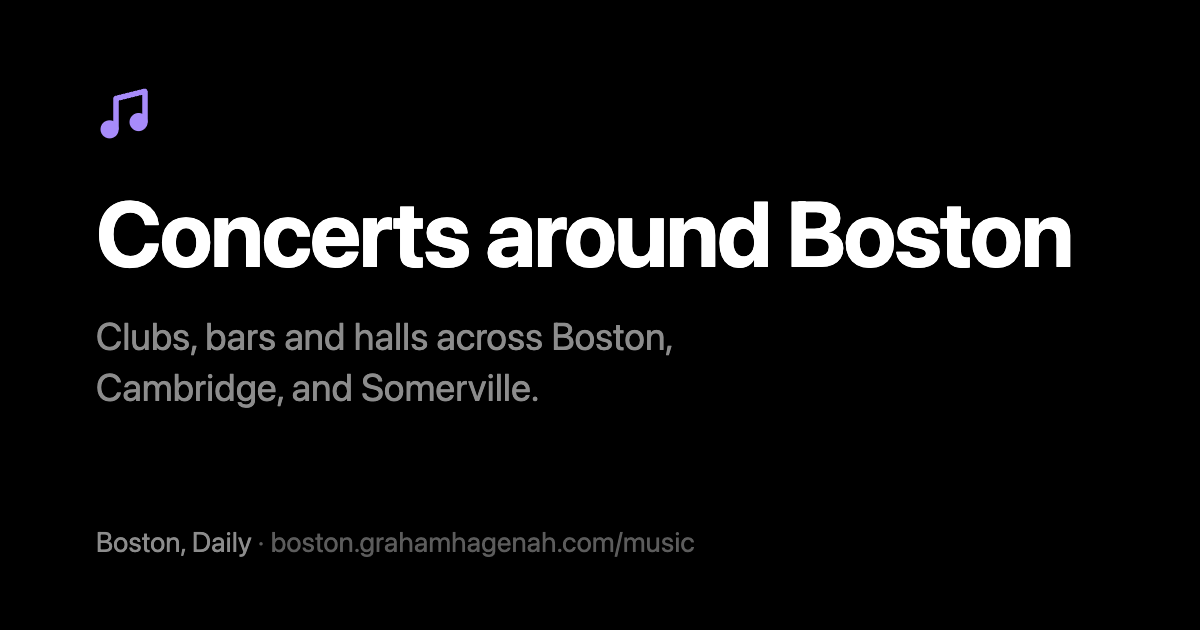
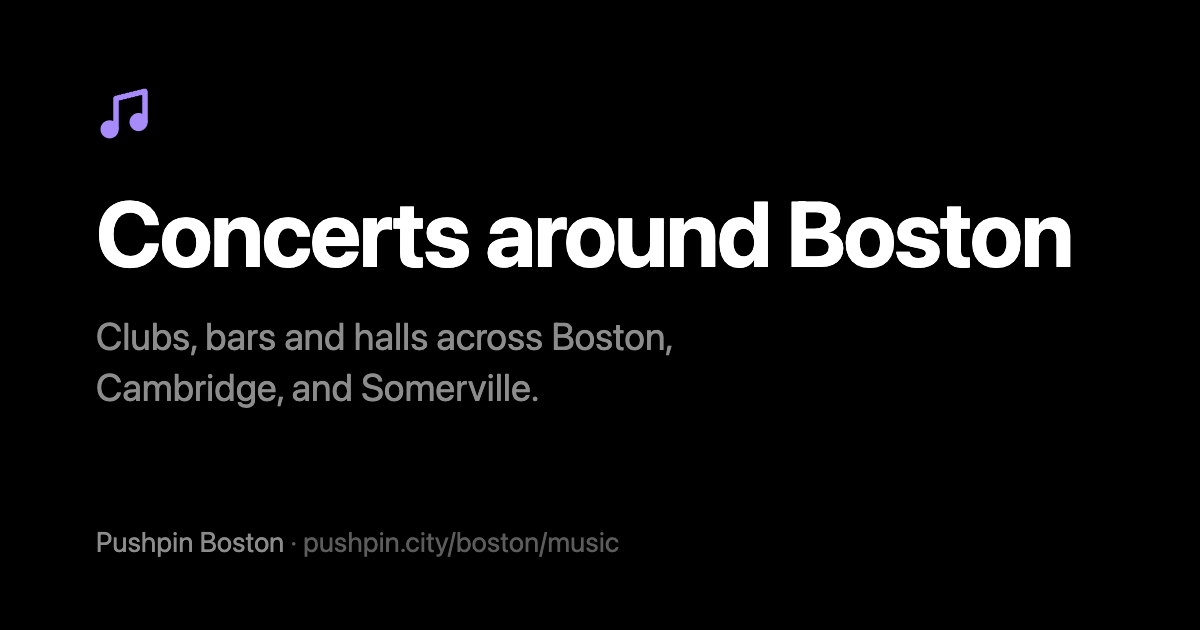
Pushpin Boston, at pushpin.city/boston/
Boston, Daily becomes Pushpin Boston, published at pushpin.city with Boston's pages under
/boston/, leaving room for other cities. The site's root and any address it doesn't have go
to Boston's (an old /music/ to /boston/music/), keeping any ?venue= or ?q=. The share cards
carry the new name and address. events/moved.py makes the pages left at
boston.grahamhagenah.com, which send each old address on to its new one.

The workflow publishes to the grahamhagenah/pushpin repo (boston-daily, renamed) with the
pushpin.city custom domain.

Changed region(s): [[0.0617, 0.8444, 0.5858, 0.8746]]

diff --git a/tests/test_events.py b/tests/test_events.py
@@ -250,6 +250,17 @@ class Skipping(unittest.TestCase):
             self.assertIsNone(build.skipping())
 
 
+class Moving(unittest.TestCase):
+    def test_redirects_keep_the_page_and_its_filters(self):
+        page = build.render_redirect(build.PUBLIC_URL + "music/")
+        self.assertIn(f'<meta http-equiv="refresh" content="0; url={build.PUBLIC_URL}music/">', page)
+        self.assertIn(f'<link rel="canonical" href="{build.PUBLIC_URL}music/">', page)
+        self.assertIn("location.search + location.hash", page, "?venue= and ?q= come along")
+        missing = build.render_redirect(build.PUBLIC_URL, paths=True)
+        self.assertIn("location.pathname.slice(1)", missing, "an old /music/ goes to /boston/music/")
+        self.assertIn(f'location.pathname.startsWith("{build.PUBLIC_ROOT}")', missing, "and never /boston/boston/")
+
+
 class Window(unittest.TestCase):
     def test_concerts_two_months_ahead_the_rest_one(self):
         with mock.patch.object(build, "today", lambda: date(2026, 9, 1)):
@@ -479,6 +490,9 @@ class Fallback(unittest.TestCase):
         self.assertEqual(failing["Paradise"]["since"], self.built.isoformat())
 
 
+R = build.PUBLIC_ROOT  # The public site's root, which its links start from.
+
+
 class Page(unittest.TestCase):
     def test_renders_rows_and_filters(self):
         with mock.patch.object(build, "fetch", sample):
@@ -501,12 +515,12 @@ class Page(unittest.TestCase):
         mine = build.render_index(found + kept, sources, [], [], built)
         self.assertNotIn("Newsfeed", public)
         footer = public.split("<footer>")[1]
-        for label, href in [("All events", "/"), ("Music", "/music/"), ("Film", "/film/"), ("Art &amp; talks", "/talks/"),
-                            ("This weekend", "/weekend/"), ("Next weekend", "/weekend/next/"), ("About", "/about.html"), ("Contact", "/contact.html")]:
+        for label, href in [("All events", R), ("Music", R + "music/"), ("Film", R + "film/"), ("Art &amp; talks", R + "talks/"),
+                            ("This weekend", R + "weekend/"), ("Next weekend", R + "weekend/next/"), ("About", R + "about.html"), ("Contact", R + "contact.html")]:
             self.assertIn(f'<a href="{href}"', footer, label)
-        self.assertIn('<a href="/" aria-current="page">All events</a>', footer, "this page marked")
+        self.assertIn(f'<a href="{R}" aria-current="page">All events</a>', footer, "this page marked")
         self.assertIn("Listings from Roadrunner, aggregated", footer)
-        self.assertNotIn('href="/about.html"', public.split("<footer>")[0], "not in the header")
+        self.assertNotIn(f'href="{R}about.html"', public.split("<footer>")[0], "not in the header")
         self.assertNotIn("Add a source", public)
         self.assertIn('content="index, follow"', public)
         self.assertIn('content="noindex, nofollow"', mine)
@@ -518,7 +532,7 @@ class Page(unittest.TestCase):
         self.assertIn("Roadrunner", about)
         self.assertNotIn("Private Theater", about)
         self.assertIn("https://formsubmit.co/", build.render_contact())
-        self.assertIn('<a href="/contact.html">Contact</a>', about.split("<footer>")[1])
+        self.assertIn(f'<a href="{R}contact.html">Contact</a>', about.split("<footer>")[1])
 
     def test_public_page_tells_search_engines_what_it_is(self):
         with mock.patch.object(build, "fetch", sample):
@@ -548,8 +562,8 @@ class Page(unittest.TestCase):
         mine = build.render_index(music + films, sources, [], [], built)
         # The home page's filter links to each kind's page, and marks All; the film page marks Film.
         self.assertIn('data-pages data-current="all"', home)
-        self.assertIn('<a data-show="film" href="/film/">', home)
-        self.assertIn('<a data-show="all" href="/" aria-current="page">All</a>', home)
+        self.assertIn(f'<a data-show="film" href="{R}film/">', home)
+        self.assertIn(f'<a data-show="all" href="{R}" aria-current="page">All</a>', home)
         self.assertIn('data-current="film"', film)
         self.assertIn(f'<link rel="canonical" href="{build.PUBLIC_URL}film/">', film)
         self.assertIn(f'<meta property="og:image" content="{build.PUBLIC_URL}share/film.png">', film)
@@ -589,14 +603,14 @@ class Page(unittest.TestCase):
         self.assertIn(f'<link rel="canonical" href="{build.PUBLIC_URL}weekend/">', page)
         self.assertIn('<nav class="filter" aria-label="Show" data-here data-one-page><button', page)
         self.assertIn(f'<meta property="og:image" content="{build.PUBLIC_URL}share/weekend.png">', page)
-        self.assertIn('<a href="/about.html" aria-current="page">About</a>', build.render_about([venue], built))
-        self.assertIn('<a href="/weekend/" aria-current="page">This weekend</a>', page)
+        self.assertIn(f'<a href="{R}about.html" aria-current="page">About</a>', build.render_about([venue], built))
+        self.assertIn(f'<a href="{R}weekend/" aria-current="page">This weekend</a>', page)
         self.assertIn(f"<loc>{build.PUBLIC_URL}weekend/</loc>", build.render_sitemap(built))
-        self.assertIn('<a href="/weekend/next/">Next weekend, Sep 25–27 →</a>', page)
+        self.assertIn(f'<a href="{R}weekend/next/">Next weekend, Sep 25–27 →</a>', page)
         following = build.render_index(events, [venue], [], [], built, public=True, weekend=1)
         self.assertNotIn("On the 18th", following)
         self.assertIn("Next weekend around Boston, Cambridge, and Somerville: Friday, September 25", following)
-        self.assertIn('<a href="/weekend/">← This weekend, Sep 18–20</a>', following)
+        self.assertIn(f'<a href="{R}weekend/">← This weekend, Sep 18–20</a>', following)
         self.assertIn(f'<link rel="canonical" href="{build.PUBLIC_URL}weekend/next/">', following)
         self.assertIn(f'<meta property="og:image" content="{build.PUBLIC_URL}share/weekend.png">', following)
         self.assertIn(f"<loc>{build.PUBLIC_URL}weekend/next/</loc>", build.render_sitemap(built))
@@ -615,7 +629,7 @@ class Page(unittest.TestCase):
         self.assertIn(f"<title>{build.PUBLIC_TONIGHT[1]}</title>", page)
         self.assertIn(f'<link rel="canonical" href="{build.PUBLIC_URL}tonight/">', page)
         self.assertIn(f'<meta property="og:image" content="{build.PUBLIC_URL}share/tonight.png">', page)
-        self.assertIn('<a href="/tonight/" aria-current="page">Tonight</a>', page)
+        self.assertIn(f'<a href="{R}tonight/" aria-current="page">Tonight</a>', page)
         self.assertIn(f"<loc>{build.PUBLIC_URL}tonight/</loc>", build.render_sitemap(built))
 
     def test_event_data_uses_an_events_own_address(self):

diff --git a/events/build.py b/events/build.py
@@ -34,12 +34,16 @@ CATEGORIES = {"music": "Music", "film": "Film", "art": "Art & talks"}
 
 # The same listings, for anyone: its own name, About and Contact pages, shorter previews, and only the
 # sources fine to republish (a line in sources.txt ending in public=no stays on this page only).
-PUBLIC_NAME = "Boston, Daily"
+PUBLIC_NAME = "Pushpin Boston"
+# Pushpin's site, at pushpin.city, with each city's listings at a path of their own: Boston's at /boston/.
+# PUBLIC_DIR is the whole site, as published; the city's pages are in its boston/ folder.
+PUBLIC_SITE = "https://pushpin.city/"
+PUBLIC_URL = PUBLIC_SITE + "boston/"
 PUBLIC_DIR = ROOT.parent / "dist" / "public"
-PUBLIC_URL = "https://boston.grahamhagenah.com/"
 # Its pages link to each other from the site's root, since the home page puts a kind's page's address in the
 # address bar without loading it, and a relative link would then go astray.
 PUBLIC_ROOT = urlsplit(PUBLIC_URL).path
+CITY_DIR = PUBLIC_DIR / PUBLIC_ROOT.strip("/")
 PUBLIC_CONTACT = "gwhagenah@gmail.com"  # Where the contact form's messages go, through FormSubmit.
 PUBLIC_ABOUT_CHARS = 240  # Of the venue's own words in a preview.
 PUBLIC_TITLE = f"{PUBLIC_NAME} · Concerts, films and talks around Boston"
@@ -1393,6 +1397,22 @@ words, in short.</p>
                        description=f"What {PUBLIC_NAME} is, and the Boston, Cambridge and Somerville venues it lists.")
 
 
+def render_redirect(address, paths=False):
+    """A page that sends its visitor on to address at once, keeping any ?venue= or ?q= and #, and tells search
+    engines that's where it lives: the site's root (Boston's, until there's another city), and the pages left
+    at the site's first address. With paths (a page not found), the rest of the address it was asked for comes
+    along: /music/ goes to /boston/music/; one already under /boston/ that isn't there, to Boston's home page."""
+    link = html.escape(address)
+    target = json.dumps(address)
+    if paths:
+        target += f' + (location.pathname.startsWith({json.dumps(PUBLIC_ROOT)}) ? "" : location.pathname.slice(1))'
+    return (f'<!doctype html>\n<html lang="en">\n<meta charset="utf-8">\n<title>{html.escape(PUBLIC_NAME)}</title>\n'
+            f'<meta http-equiv="refresh" content="0; url={link}">\n<link rel="canonical" href="{link}">\n'
+            f'<meta name="color-scheme" content="dark">\n<style>html {{ background: #000; }}</style>\n'
+            f"<script>location.replace({target} + location.search + location.hash);</script>\n"
+            f'<p><a href="{link}">{html.escape(PUBLIC_NAME)}</a></p>\n</html>\n')
+
+
 def render_sitemap(built_at):
     """The public site's pages for search engines: the listings, changing every few hours, and the others."""
     pages = ([("", "hourly", "1.0"), (PUBLIC_TONIGHT[0], "hourly", "0.9")] + [(path, "hourly", "0.9") for path, *_ in PUBLIC_WEEKENDS] + [(f"{slug}/", "hourly", "0.9") for slug, *_ in PUBLIC_PAGES.values()]
@@ -1890,24 +1910,28 @@ def main():
     print(f"Wrote {OUT_DIR.relative_to(ROOT.parent)}/index.html with {len(events)} listings, and listings.json")
 
     # The public site, from the same listings.
-    PUBLIC_DIR.mkdir(parents=True, exist_ok=True)
-    shutil.copytree(ROOT / "static", PUBLIC_DIR, dirs_exist_ok=True)
-    shutil.copytree(ROOT / "share", PUBLIC_DIR / "share", dirs_exist_ok=True)
-    (PUBLIC_DIR / "index.html").write_text(render_index(events, sources, failed, stale, built_at, public=True))
-    (PUBLIC_DIR / "about.html").write_text(render_about(sources, built_at))
-    (PUBLIC_DIR / "contact.html").write_text(render_contact())
+    CITY_DIR.mkdir(parents=True, exist_ok=True)
+    shutil.copytree(ROOT / "static", CITY_DIR, dirs_exist_ok=True)
+    shutil.copytree(ROOT / "share", CITY_DIR / "share", dirs_exist_ok=True)
+    (CITY_DIR / "index.html").write_text(render_index(events, sources, failed, stale, built_at, public=True))
+    (CITY_DIR / "about.html").write_text(render_about(sources, built_at))
+    (CITY_DIR / "contact.html").write_text(render_contact())
     for category, (slug, *_) in PUBLIC_PAGES.items():
-        (PUBLIC_DIR / slug).mkdir(exist_ok=True)
-        (PUBLIC_DIR / slug / "index.html").write_text(render_index(events, sources, failed, stale, built_at, public=True, category=category))
-    (PUBLIC_DIR / PUBLIC_TONIGHT[0]).mkdir(parents=True, exist_ok=True)
-    (PUBLIC_DIR / PUBLIC_TONIGHT[0] / "index.html").write_text(render_index(events, sources, failed, stale, built_at, public=True, tonight=True))
+        (CITY_DIR / slug).mkdir(exist_ok=True)
+        (CITY_DIR / slug / "index.html").write_text(render_index(events, sources, failed, stale, built_at, public=True, category=category))
+    (CITY_DIR / PUBLIC_TONIGHT[0]).mkdir(parents=True, exist_ok=True)
+    (CITY_DIR / PUBLIC_TONIGHT[0] / "index.html").write_text(render_index(events, sources, failed, stale, built_at, public=True, tonight=True))
     for ahead, (path, *_) in enumerate(PUBLIC_WEEKENDS):
-        (PUBLIC_DIR / path).mkdir(parents=True, exist_ok=True)
-        (PUBLIC_DIR / path / "index.html").write_text(render_index(events, sources, failed, stale, built_at, public=True, weekend=ahead))
-    (PUBLIC_DIR / "sitemap.xml").write_text(render_sitemap(built_at))
+        (CITY_DIR / path).mkdir(parents=True, exist_ok=True)
+        (CITY_DIR / path / "index.html").write_text(render_index(events, sources, failed, stale, built_at, public=True, weekend=ahead))
+    (CITY_DIR / "sitemap.xml").write_text(render_sitemap(built_at))
+    # The site's root: straight to Boston, the only city so far, and robots.txt, which only works there.
+    shutil.copytree(ROOT / "static", PUBLIC_DIR, dirs_exist_ok=True)
+    (PUBLIC_DIR / "index.html").write_text(render_redirect(PUBLIC_URL))
+    (PUBLIC_DIR / "404.html").write_text(render_redirect(PUBLIC_URL, paths=True))
     (PUBLIC_DIR / "robots.txt").write_text(f"User-agent: *\nAllow: /\n\nSitemap: {PUBLIC_URL}sitemap.xml\n")
-    print(f"Wrote {PUBLIC_DIR.relative_to(ROOT.parent)}: index.html, {', '.join(slug + '/' for slug, *_ in PUBLIC_PAGES.values())}, tonight/, weekend/, weekend/next/, "
-          "about.html, contact.html, sitemap.xml and robots.txt")
+    print(f"Wrote {CITY_DIR.relative_to(ROOT.parent)}: index.html, {', '.join(slug + '/' for slug, *_ in PUBLIC_PAGES.values())}, tonight/, weekend/, weekend/next/, "
+          "about.html, contact.html and sitemap.xml; and at the site's root, the way to it and robots.txt")
 
 
 if __name__ == "__main__":

diff --git a/events/moved.py b/events/moved.py
@@ -1,0 +1,30 @@
+"""The pages left at boston.grahamhagenah.com, where Pushpin Boston was first published (as Boston, Daily): each
+of its old addresses sends visitors and search engines on to the same page at pushpin.city/boston/, keeping
+any ?venue= or ?q=. They don't change, so they're made once, into dist/moved, with python3 -m events.moved,
+and published from the grahamhagenah/boston-daily repo's gh-pages branch."""
+
+from pathlib import Path
+
+from events import build
+
+OLD_DOMAIN = "boston.grahamhagenah.com"
+OUT = build.ROOT.parent / "dist" / "moved"
+# Every page the site had there, and a page for any other address, which follows it to the same path.
+PAGES = ["", "about.html", "contact.html", build.PUBLIC_TONIGHT[0]] + [path for path, *_ in build.PUBLIC_WEEKENDS] + [
+    f"{slug}/" for slug, *_ in build.PUBLIC_PAGES.values()]
+
+
+def main():
+    for path in PAGES:
+        page = OUT / (path + "index.html" if path == "" or path.endswith("/") else path)
+        page.parent.mkdir(parents=True, exist_ok=True)
+        page.write_text(build.render_redirect(build.PUBLIC_URL + path))
+    (OUT / "404.html").write_text(build.render_redirect(build.PUBLIC_URL, paths=True))
+    (OUT / "robots.txt").write_text("User-agent: *\nAllow: /\n")
+    (OUT / "CNAME").write_text(OLD_DOMAIN + "\n")
+    (OUT / ".nojekyll").write_text("")
+    print(f"Wrote {len(PAGES) + 1} pages to {OUT.relative_to(Path.cwd()) if OUT.is_relative_to(Path.cwd()) else OUT}")
+
+
+if __name__ == "__main__":
+    main()

diff --git a/events/share_cards.py b/events/share_cards.py
@@ -1,4 +1,4 @@
-"""The images a link to Boston, Daily shows when it's shared (1200×630): one for the home page, one for each
+"""The images a link to Pushpin Boston shows when it's shared (1200×630): one for the home page, one for each
 kind's page. They don't change with the listings, so they're made by hand, not by each build, with Chrome
 installed: python3 -m events.share_cards. Run it again after renaming the site or rewording a page; it writes
 events/share/*.png, which the build copies to the public site."""

diff --git a/README.md b/README.md
@@ -27,19 +27,19 @@ Run everything from this top folder, with only the Python standard library:
 - Venues rarely publish feeds, so the build uses the most dependable thing each offers: AEG's event data (Roadrunner), an AXS venue site's full listing and its shows' own pages for start times (The Sinclair), schema.org event data (the Brattle, House of Blues, Deep Cuts' page on DICE), a calendar feed (Midway Cafe, and Arts at the Armory's, sorted by its own categories), a Squarespace site's event data (The Lilypad), a calendar in a page's script (Club Passim), a WordPress calendar's API (Lizard Lounge, The Rockwell's music), the schedule data behind a theater chain's site (Alamo Drafthouse, Landmark's Kendall Square), Ticketmaster (the Paradise, Brighton Music Hall, the Crystal Ballroom, the Somerville Theatre), a Veezi-hosted theater's own data (West Newton Cinema), or the page itself (the Coolidge, the Harvard Film Archive, TicketWeb listings at the Middle East).
 - Art & talks come from MIT's events calendar (public exhibitions, and talks from its architecture and humanities schools or listed under the arts), the Boston Public Library's events feed (talks, lectures and exhibitions for adults), the MFA's and Harvard Art Museums' calendars (their lectures, talks and special events; their films go under Film), SoWa's First Fridays, the ICA's talks, dance and First Fridays (its concerts go under Music, its films under Film), the French Library's talks and screenings (its screenings go under Film), and ArtsEmerson's performances. An exhibition is listed on the day it opens, with when it closes.
 - The search beside the filter keeps the events with every word typed in their name, place or description, like a venue, a director or "35mm" (press / to jump to it, Esc to clear it). The newsfeed has the same search, over headlines, sources and previews. On phones the search and the menu beside it are on a line of their own under the kinds.
-- The newsfeed's menu beside it ("All sources") shows one source's posts, of every kind, kept in the address (`?source=`). The events pages' ("All venues") shows one venue's events of every kind, kept in the address (`?venue=`); a film playing at several theaters narrows to the chosen one's times. On Boston, Daily's music, film and talks pages, a choice goes to the home page, which has every kind; on the weekend and tonight pages it lists only the venues with events then.
+- The newsfeed's menu beside it ("All sources") shows one source's posts, of every kind, kept in the address (`?source=`). The events pages' ("All venues") shows one venue's events of every kind, kept in the address (`?venue=`); a film playing at several theaters narrows to the chosen one's times. On Pushpin Boston's music, film and talks pages, a choice goes to the home page, which has every kind; on the weekend and tonight pages it lists only the venues with events then.
 - Clicking a showtime adds that showing to a calendar: an iPhone or iPad gets Calendar's own sheet, Android Google Calendar's page, and anything else a `.ics` file. The page makes the event itself, with the venue's address from `VENUE_ADDRESSES` (or the event's own), so nothing is fetched for it.
 - Hovering an event's name shows what its source says about it: a film's blurb or credits, a band's bio, the door time and cover, as the newsfeed shows a post's first lines. Sources that say nothing (the MFA, the Middle East, Kendall Square) have no preview, except a cut-off name in full.
 - Ticketmaster venues need a free [Ticketmaster Discovery API](https://developer.ticketmaster.com/) key, kept as this repo's `TICKETMASTER_KEY` secret. To add one, find its venue id with Actions → "Find a Ticketmaster venue".
 
-## Boston, Daily, the public version
+## Pushpin Boston, the public version
 
-The events build also writes the same listings for anyone, as **Boston, Daily** (`dist/public`), published from the [grahamhagenah/boston-daily](https://github.com/grahamhagenah/boston-daily) repo's `gh-pages` branch at https://boston.grahamhagenah.com/ (a CNAME record for `boston` points at `grahamhagenah.github.io`). It has its own name in place of the Newsfeed/Events switcher, an About page (what it is, and every venue) and a Contact page, a footer listing every page (Browse: all events and each kind; When: tonight and the weekends; About and Contact) with the current one marked (`public_footer`), shorter previews of the venues' own descriptions, no "Add a source" link, and lets search engines list it.
+The events build also writes the same listings for anyone, as **Pushpin Boston** (`dist/public`), published from the [grahamhagenah/pushpin](https://github.com/grahamhagenah/pushpin) repo's `gh-pages` branch at https://pushpin.city/boston/ (four A records for `pushpin.city` point at GitHub Pages, a CNAME record for `www` at `grahamhagenah.github.io`). Each city gets a path of its own there (`PUBLIC_URL`); the site's root, and any address it doesn't have, go to Boston's until there's another (`render_redirect`). It was first published as Boston, Daily at boston.grahamhagenah.com, whose pages now send each old address on to the same page here, keeping any `?venue=` or `?q=` (`python3 -m events.moved`, published once from the [grahamhagenah/boston-daily](https://github.com/grahamhagenah/boston-daily) repo). It has its own name in place of the Newsfeed/Events switcher, an About page (what it is, and every venue) and a Contact page, a footer listing every page (Browse: all events and each kind; When: tonight and the weekends; About and Contact) with the current one marked (`public_footer`), shorter previews of the venues' own descriptions, no "Add a source" link, and lets search engines list it.
 
 - For search engines: a descriptive title and description, a one-line tagline, a canonical address, sharing tags, every listing as schema.org event data (with each venue's street address, from `VENUE_ADDRESSES` in `events/build.py` unless the source gives the event's own, so add a new venue's there), a `sitemap.xml` and a `robots.txt` pointing to it.
-- Each kind has its own page, `/music/`, `/film/` and `/talks/`, with only its events and its own title, description and tagline (`PUBLIC_PAGES` in `events/build.py`). The filter's choices link to them; on the home page, which has every event, the filter shows a kind in place and puts its page's address in the address bar. The pages link to each other from the site's root (`/about.html`), since a relative link would go astray after that.
-- `/tonight/` lists what's still to come today, on one page (`PUBLIC_TONIGHT`). It holds tomorrow's listings too and shows only the day it is where it's read, so it rolls over at midnight rather than waiting up to three hours for the next build.
-- `/weekend/` lists Friday to Sunday: the weekend it is, or from Monday to Thursday the one coming (`weekend_days`), and `/weekend/next/` the weekend after; each shows the whole weekend on one page and links to the other where the pager would be (`PUBLIC_WEEKENDS`). Their filter shows a kind in place. Every public page's footer links to this weekend's.
+- Each kind has its own page, `/boston/music/`, `/boston/film/` and `/boston/talks/`, with only its events and its own title, description and tagline (`PUBLIC_PAGES` in `events/build.py`). The filter's choices link to them; on the home page, which has every event, the filter shows a kind in place and puts its page's address in the address bar. The pages link to each other from the city's root (`/boston/about.html`), since a relative link would go astray after that.
+- `/boston/tonight/` lists what's still to come today, on one page (`PUBLIC_TONIGHT`). It holds tomorrow's listings too and shows only the day it is where it's read, so it rolls over at midnight rather than waiting up to three hours for the next build.
+- `/boston/weekend/` lists Friday to Sunday: the weekend it is, or from Monday to Thursday the one coming (`weekend_days`), and `/boston/weekend/next/` the weekend after; each shows the whole weekend on one page and links to the other where the pager would be (`PUBLIC_WEEKENDS`). Their filter shows a kind in place. Every public page's footer links to this weekend's.
 - Shared links show a card (1200×630) in the site's style: the home page's, and one for each kind's page, in `events/share/`. They don't change with the listings, so they're made by hand with Chrome: `python3 -m events.share_cards`, again after renaming the site or rewording a page.
 - A source ending in `public=no` in `events/sources.txt` stays off it, for one that isn't ours to republish.
 - The Contact page's form sends through [FormSubmit](https://formsubmit.co) to the address in `PUBLIC_CONTACT`; its first message asks that address to confirm, and FormSubmit then offers a random alias to use there instead of the address.
